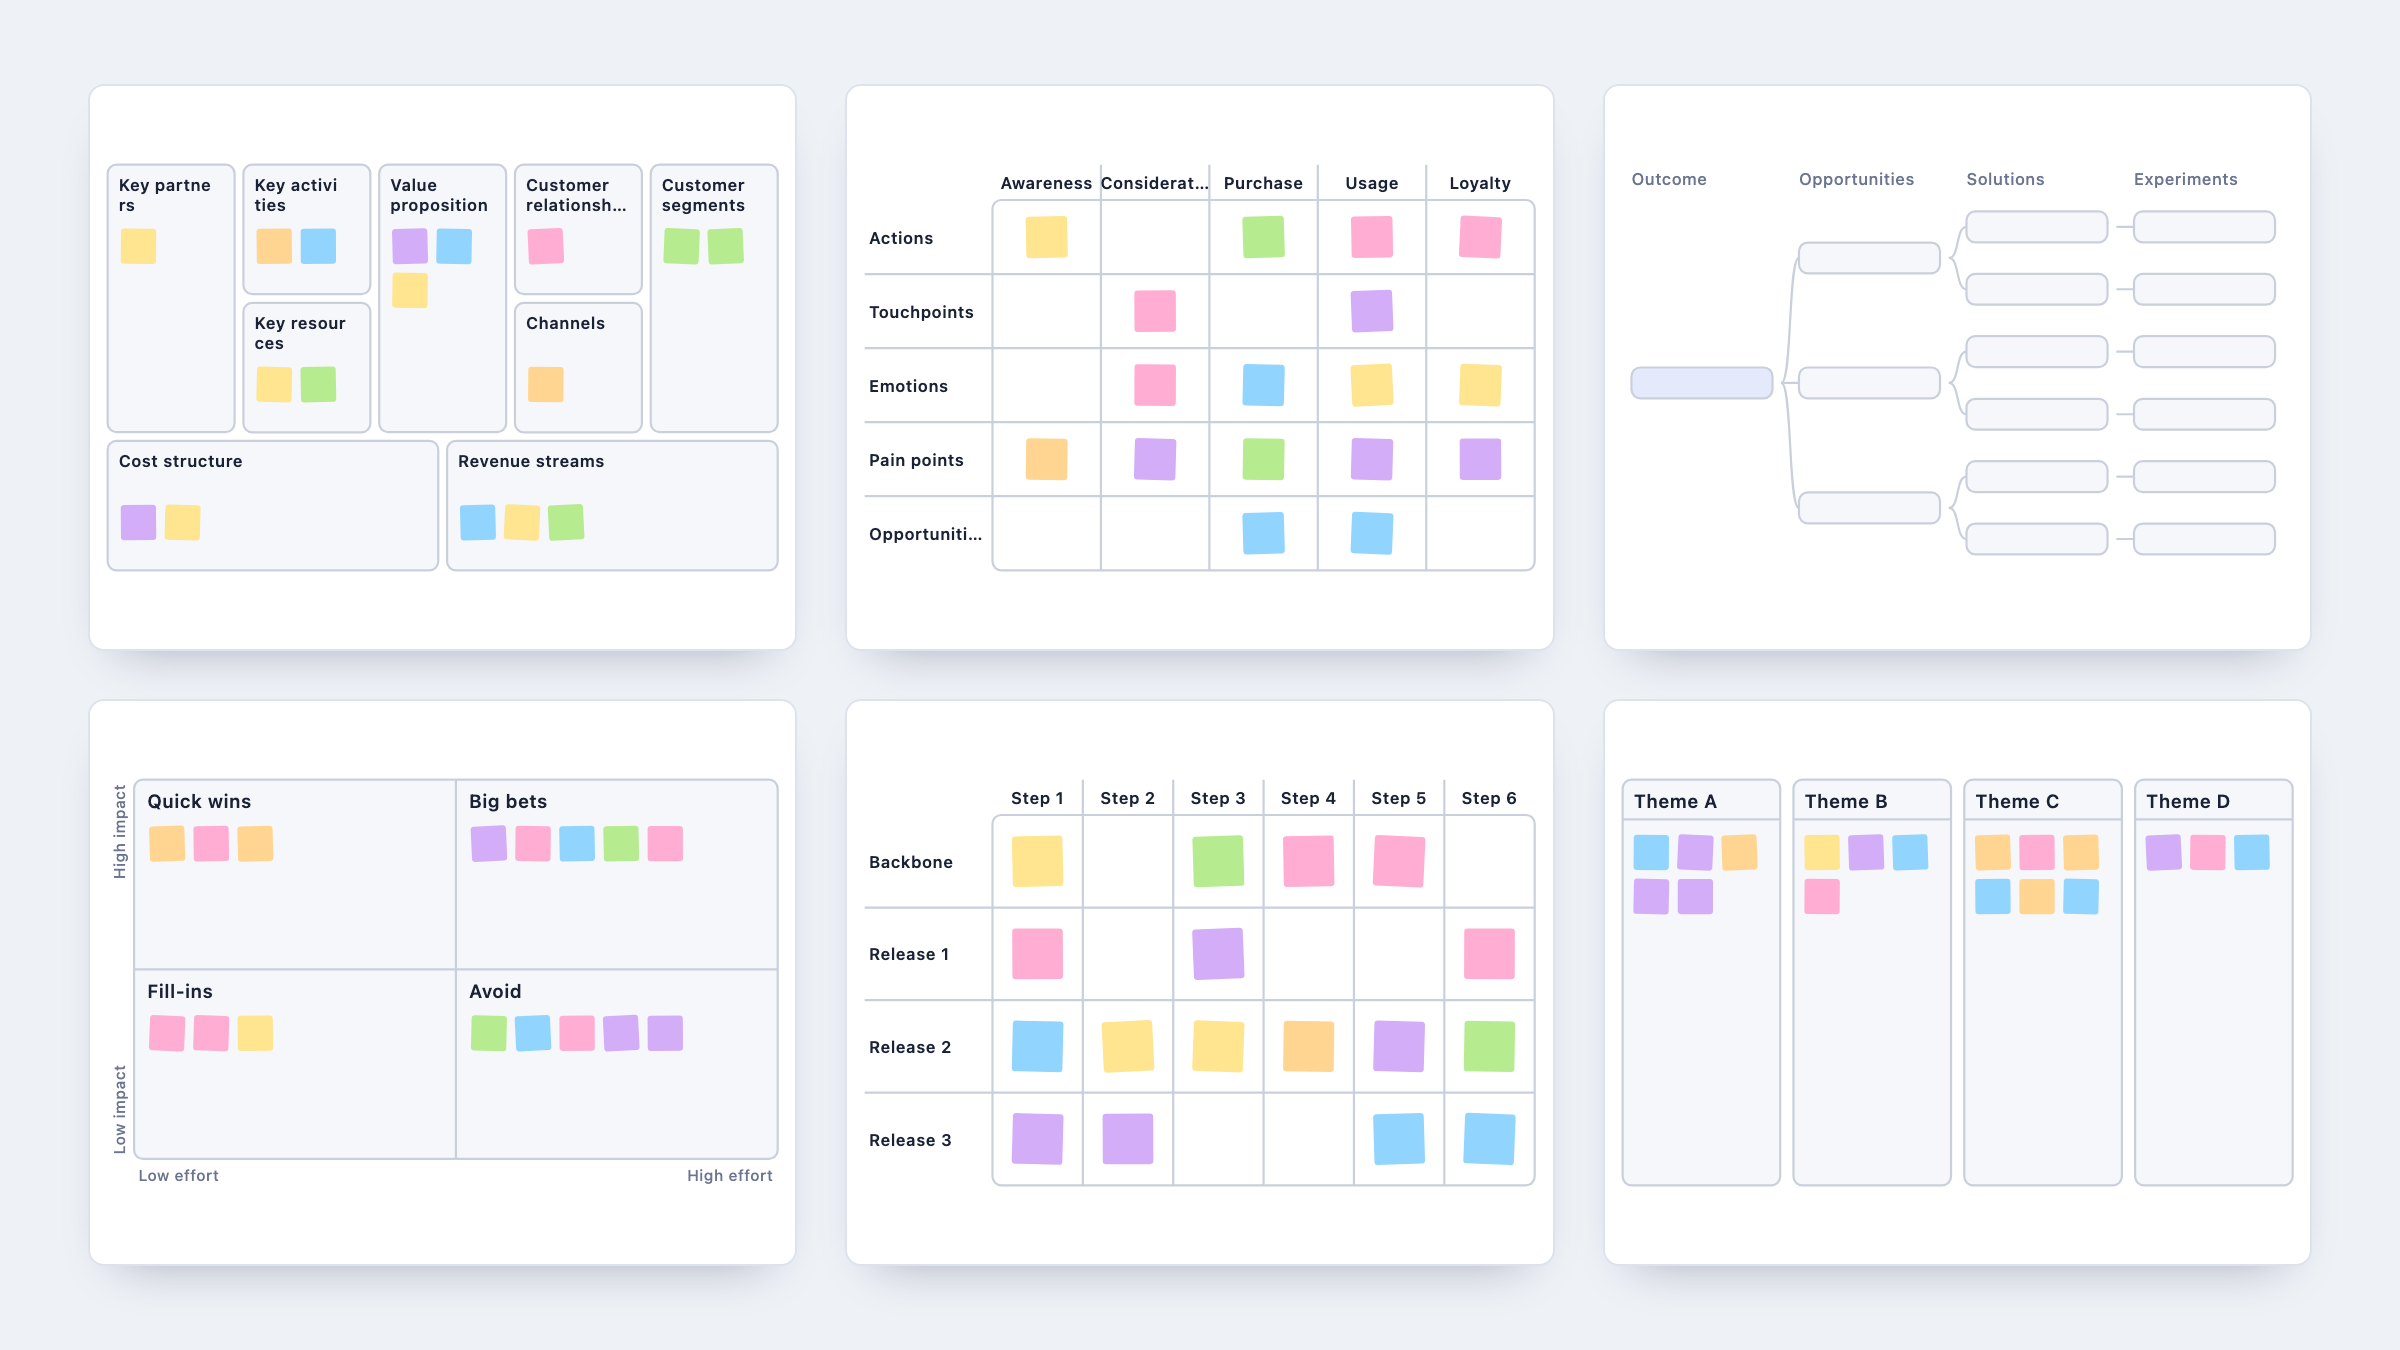
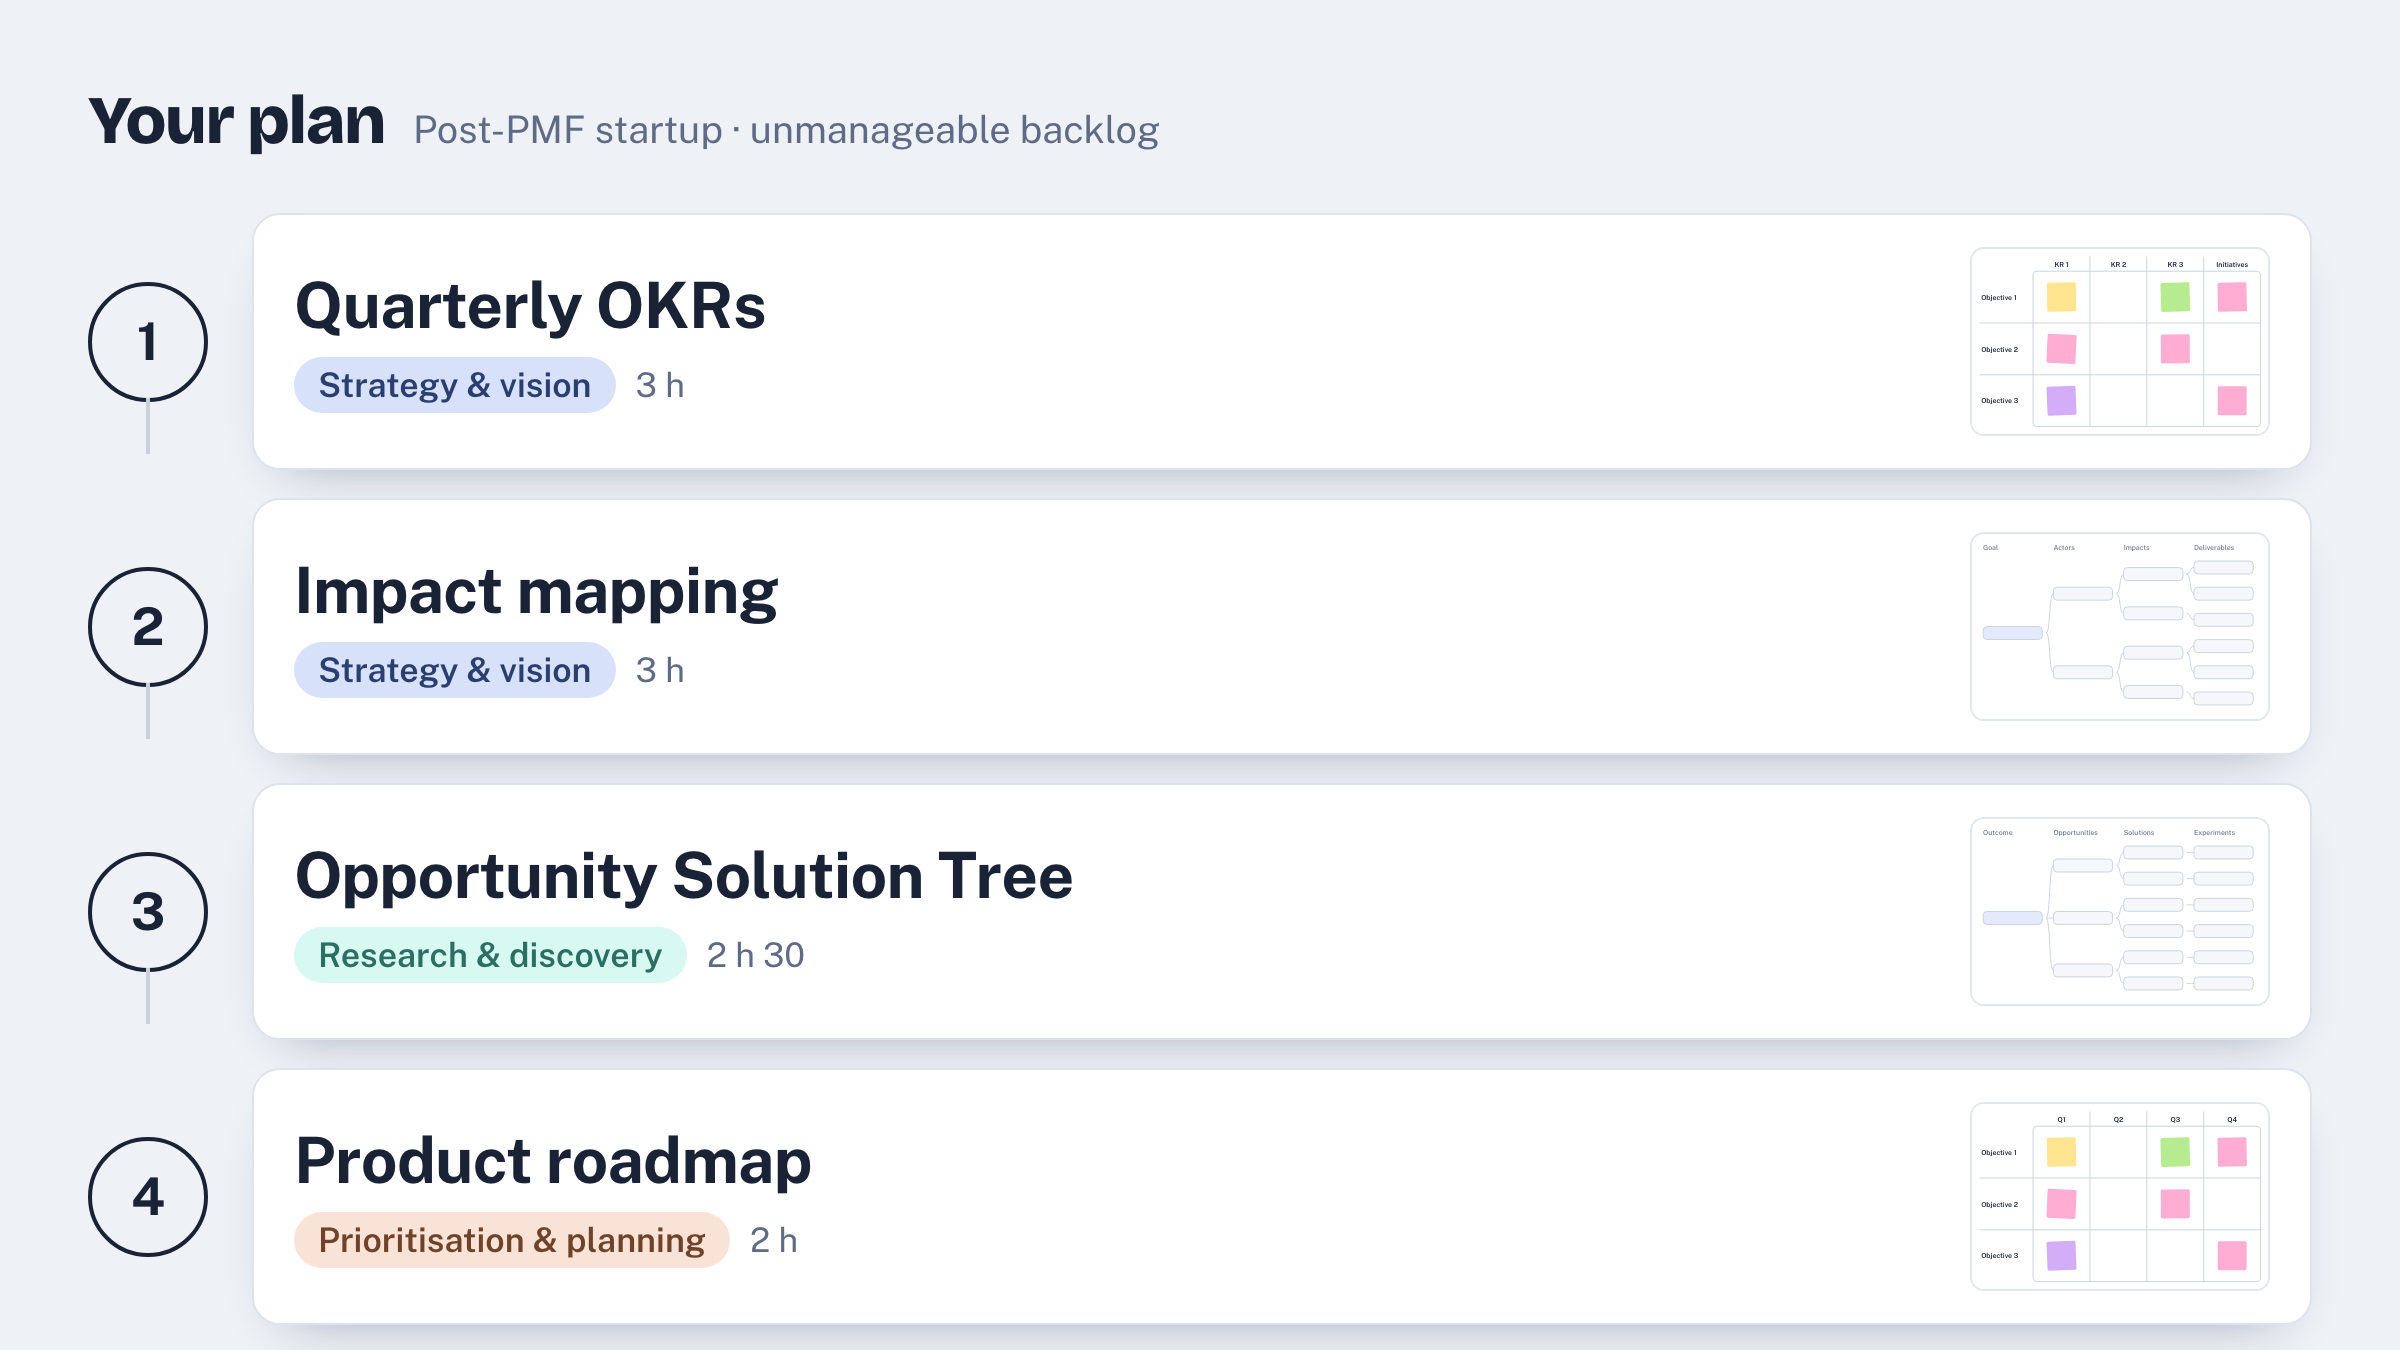
Couverture Tools : montrer la sequence, pas la bibliotheque
Une mosaique de boards vend un lot de templates FigJam, soit exactement
le positionnement de commodite dont l'outil se demarque. La valeur est
l'ordre : quel atelier pour ta situation, et apres lequel. La couverture
montre donc un plan reel produit par l'app, quatre etapes numerotees avec
leur phase et leur duree, pour une situation nommee en haut.

Claude-Session: https://claude.ai/code/session_015B7bz398nWncDdA6sDRWq9

Changed region(s): [[0.0312, 0.0622, 0.9688, 0.9956], [0.8438, 0.4044, 0.9375, 0.4356], [0.625, 0.4044, 0.6562, 0.4356]]

diff --git a/tools/cover.js b/tools/cover.js
@@ -1,21 +1,51 @@
-// Couverture pour la carte Tools du portfolio : une grille de boards, pas une affiche.
-// Usage : node tools/cover.js   (Chrome headless, sortie en 2400×1350 puis réduite à 1200×675)
+// Couverture pour la carte Tools du portfolio.
+// Ce que l'outil vend n'est pas un lot de boards, c'est la sequence : quel atelier
+// pour ta situation, dans quel ordre. La couverture montre donc un plan, pas une bibliotheque.
+// Usage : node tools/cover.js   (Chrome headless, rendu en 2400x1350)
 const fs = require('fs'), path = require('path'), { execFileSync } = require('child_process');
 const root = path.join(__dirname, '..');
 const { LAYOUTS } = require(path.join(root, 'layouts.en.js'));
 const { Preview } = require(path.join(root, 'preview.js'));
 const CH = process.env.CHROME || '/Applications/Google Chrome.app/Contents/MacOS/Google Chrome';
 const VARS = {'--pv-bg':'#FFFFFF','--pv-fill':'#F6F7FA','--pv-line':'#C9D0DC','--pv-ink':'#1A2236','--pv-muted':'#6B7590','--pv-accent':'#1F4FE0','--pv-accent-soft':'#E4EAFC','--pv-warn-soft':'#FCE4DA'};
-const IDS = ['bmc', 'journey', 'ost', 'impact-effort', 'storymap', 'affinity'];
+const HUE = {cadrage:258, strategie:222, research:168, ideation:46, prio:22, conception:335, alignement:92, mesure:200};
 const pv = id => Preview.renderPreview(LAYOUTS[id], {}).replace(/var\((--pv-[a-z-]+)\)/g, (m, k) => VARS[k] || '#000');
-const html = `<!doctype html><meta charset="utf-8"><style>
-html,body{margin:0;width:1200px;height:675px;overflow:hidden;background:#EEF1F6}
-.wrap{position:absolute;inset:0;display:grid;grid-template-columns:repeat(3,1fr);grid-template-rows:repeat(2,1fr);gap:24px;padding:42px 44px;box-sizing:border-box}
-.tile{background:#fff;border:1px solid #DDE3EC;border-radius:8px;overflow:hidden;box-shadow:0 12px 24px -16px rgba(20,30,60,.4)}
-.tile svg{display:block;width:100%;height:100%}
-</style><body><div class="wrap">${IDS.map(id => `<div class="tile">${pv(id)}</div>`).join('')}</div>`;
+// La sequence que l'outil produit reellement pour ce cas, verifiee dans l'app.
+const SITUATION = 'Post-PMF startup · unmanageable backlog';
+const STEPS = [
+  {id:'okr',     name:'Quarterly OKRs',            phase:'Strategy & vision',       h:'strategie', dur:'3 h'},
+  {id:'impact',  name:'Impact mapping',            phase:'Strategy & vision',       h:'strategie', dur:'3 h'},
+  {id:'ost',     name:'Opportunity Solution Tree', phase:'Research & discovery',    h:'research',  dur:'2 h 30'},
+  {id:'roadmap', name:'Product roadmap',           phase:'Prioritisation & planning', h:'prio',    dur:'2 h'},
+];
+const html = `<!doctype html><meta charset="utf-8">
+<link rel="stylesheet" href="https://fonts.googleapis.com/css2?family=Bricolage+Grotesque:opsz,wght@12..96,800&family=Public+Sans:wght@400;500;600;700&display=swap">
+<style>
+html,body{margin:0;width:1200px;height:675px;overflow:hidden;background:#EEF1F6;font-family:"Public Sans",system-ui,sans-serif;color:#1A2236;-webkit-font-smoothing:antialiased}
+.wrap{position:absolute;inset:0;padding:40px 44px;box-sizing:border-box;display:flex;flex-direction:column}
+.ctx{display:flex;align-items:baseline;gap:14px;margin-bottom:26px}
+.ctx b{font-family:"Bricolage Grotesque",sans-serif;font-size:34px;font-weight:800;letter-spacing:-.02em}
+.ctx i{font-style:normal;font-size:19px;color:#5F6A85}
+.rail{flex:1;display:flex;flex-direction:column;gap:14px}
+.row{flex:1;display:flex;align-items:center;gap:22px;position:relative}
+.n{position:relative;flex:none;width:56px;height:56px;border-radius:50%;border:2px solid #1A2236;display:flex;align-items:center;justify-content:center;font-size:26px;font-weight:700;background:#EEF1F6;z-index:1}
+.row:not(:last-child) .n::after{content:"";position:absolute;top:56px;left:50%;width:2px;height:28px;background:#C9D0DC;transform:translateX(-50%)}
+.card{flex:1;min-width:0;display:flex;align-items:center;gap:20px;background:#fff;border:1px solid #DDE3EC;border-radius:14px;padding:16px 20px;box-shadow:0 12px 26px -18px rgba(20,30,60,.45)}
+.t{flex:1;min-width:0}
+.t h3{margin:0 0 8px;font-size:32px;font-weight:700;letter-spacing:-.01em;line-height:1.1}
+.t .m{display:flex;align-items:center;gap:10px}
+.chip{display:inline-flex;padding:4px 12px;border-radius:999px;font-size:17px;font-weight:600;background:hsl(var(--h) 75% 91%);color:hsl(var(--h) 45% 30%)}
+.dur{font-size:17px;color:#5F6A85}
+.mini{flex:none;width:148px;border:1px solid #E1E6EF;border-radius:7px;overflow:hidden;background:#fff}
+.mini svg{display:block;width:100%;height:100%}
+</style><body><div class="wrap">
+  <div class="ctx"><b>Your plan</b><i>${SITUATION}</i></div>
+  <div class="rail">
+    ${STEPS.map((s, i) => `<div class="row"><div class="n">${i + 1}</div><div class="card"><div class="t"><h3>${s.name}</h3><div class="m"><span class="chip" style="--h:${HUE[s.h]}">${s.phase}</span><span class="dur">${s.dur}</span></div></div><div class="mini">${pv(s.id)}</div></div></div>`).join('')}
+  </div>
+</div>`;
 const tmp = path.join(root, 'tools', '.cover.html'); fs.writeFileSync(tmp, html);
 const out = path.join(root, 'og', 'cover-tools.png');
-execFileSync(CH, ['--headless=new','--disable-gpu','--hide-scrollbars','--force-device-scale-factor=2','--window-size=1200,675','--virtual-time-budget=4000',`--screenshot=${out}`,`file://${tmp}`], {stdio:'ignore'});
+execFileSync(CH, ['--headless=new','--disable-gpu','--hide-scrollbars','--force-device-scale-factor=2','--window-size=1200,675','--virtual-time-budget=5000',`--screenshot=${out}`,`file://${tmp}`], {stdio:'ignore'});
 fs.rmSync(tmp);
 console.log('cover:', out);
